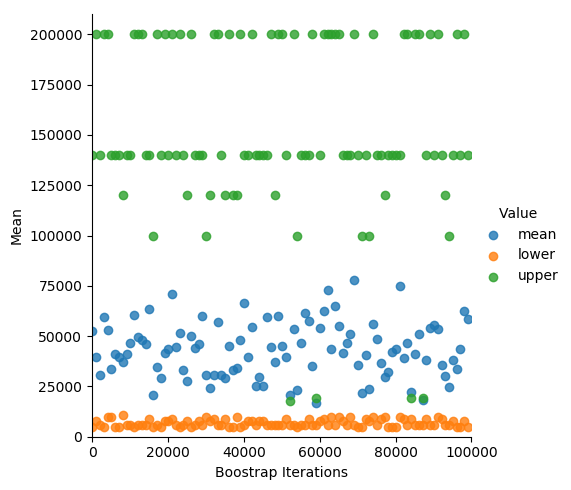
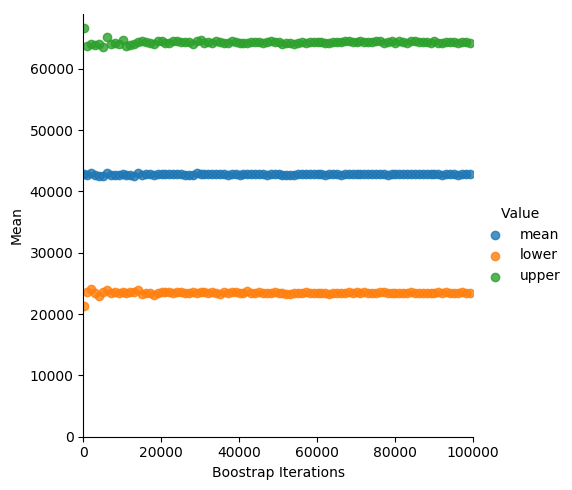
Bootstrap algo

diff --git a/labs/lab2/bootstrap.py b/labs/lab2/bootstrap.py
@@ -9,59 +9,107 @@ import math
 
 def boostrap(sample, sample_size, iterations):
     array = []
-    data_mean = []
+    meansArray = []
 
     #-----------CI value------------
-    percent = 0.05  #10% CI
+    percent = 90  #10% CI
     #-------------------------------
 
-    for i in range(0, sample_size):
-        rand = random.randint(0, sample_size-1)
-        array.append(sample[rand])
-    array.sort()
-    #print(array)
-    data_mean = np.mean(array)
+    for i in range(0, iterations):
+        for i in range(0, sample_size):
+            rand = random.randint(0, sample_size - 1)
+            array.append(sample[rand])
+        meansArray.append(np.mean(array))
+        array.clear()
 
-    #calculate number of elements to remove from list
-    res = percent*sample_size
-    res = math.floor(res)
 
-    for i in range(0, res):
-        array.pop(i)
-    #print(array)
+    #print(meansArray)
 
-    for i in range(sample_size-1, sample_size-res-1, -1):
-        array.pop(i-1)
-    #print(array)
+    data_mean = np.mean(meansArray)
+    lower = np.percentile(meansArray, (100 - percent)/2)
+    upper = np.percentile(meansArray, percent + (100 - percent)/2)
+    #print(upper)
+    #print(lower)
     #print("")
-    lower = min(array)
-    upper = max(array)
 
     return data_mean, lower, upper
 
 
 if __name__ == "__main__":
-    df = pd.read_csv('./salaries.csv')
+    mode = 2
+    if mode == 1:
+        df = pd.read_csv('./salaries.csv')
 
-    data = df.values.T[1]
-    boots = []
-    for i in range(100, 100000, 1000):
-        boot = boostrap(data, data.shape[0], i)
-        boots.append([i, boot[0], "mean"])
-        boots.append([i, boot[1], "lower"])
-        boots.append([i, boot[2], "upper"])
+        data = df.values.T[1]
+        boots = []
+        for i in range(100, 100000, 1000):
+            boot = boostrap(data, data.shape[0], i)
+            boots.append([i, boot[0], "mean"])
+            boots.append([i, boot[1], "lower"])
+            boots.append([i, boot[2], "upper"])
 
-    df_boot = pd.DataFrame(boots, columns=['Boostrap Iterations', 'Mean', "Value"])
-    sns_plot = sns.lmplot(df_boot.columns[0], df_boot.columns[1], data=df_boot, fit_reg=False, hue="Value")
+        df_boot = pd.DataFrame(boots, columns=['Boostrap Iterations', 'Mean', "Value"])
+        sns_plot = sns.lmplot(df_boot.columns[0], df_boot.columns[1], data=df_boot, fit_reg=False, hue="Value")
 
-    sns_plot.axes[0, 0].set_ylim(0,)
-    sns_plot.axes[0, 0].set_xlim(0, 100000)
+        sns_plot.axes[0, 0].set_ylim(0,)
+        sns_plot.axes[0, 0].set_xlim(0, 100000)
 
-    sns_plot.savefig("bootstrap_confidence.png", bbox_inches='tight')
-    sns_plot.savefig("bootstrap_confidence.pdf", bbox_inches='tight')
+        sns_plot.savefig("bootstrap_confidence.png", bbox_inches='tight')
+        sns_plot.savefig("bootstrap_confidence.pdf", bbox_inches='tight')
 
-    var_a = "Mean: %f" % np.mean(data)
-    var_b = "Var: %f" % np.var(data)
+        var_a = "Mean: %f" % np.mean(data)
+        var_b = "Var: %f" % np.var(data)
 
-    print(var_a)
-    print(var_b)
+        print(var_a)
+        print(var_b)
+    else:
+        #-----------------Bootstrap(2)--------------------------
+
+        df = pd.read_csv('./vehicles.csv')
+
+        data = df.values.T[0]
+        data2 = df.values.T[1]
+
+        boots = []
+        for i in range(100, 100000, 1000):
+            boot = boostrap(data, data.shape[0], i)
+            boots.append([i, boot[0], "mean"])
+            boots.append([i, boot[1], "lower"])
+            boots.append([i, boot[2], "upper"])
+
+        df_boot = pd.DataFrame(boots, columns=['Boostrap Iterations', 'Mean', "Value"])
+        sns_plot = sns.lmplot(df_boot.columns[0], df_boot.columns[1], data=df_boot, fit_reg=False, hue="Value")
+
+        sns_plot.axes[0, 0].set_ylim(0, )
+        sns_plot.axes[0, 0].set_xlim(0, 100000)
+
+        sns_plot.savefig("bootstrap_confidenceCurr.png", bbox_inches='tight')
+        sns_plot.savefig("bootstrap_confidenceCurr.pdf", bbox_inches='tight')
+
+        var_a = "Mean of current fleet: %f" % np.mean(data)
+        var_b = "Var of current fleet: %f" % np.var(data)
+
+        print(var_a)
+        print(var_b)
+
+        """boots.clear()
+        for i in range(100, 100000, 1000):
+            boot = boostrap(data2, data2.shape[0], i)
+            boots.append([i, boot[0], "mean"])
+            boots.append([i, boot[1], "lower"])
+            boots.append([i, boot[2], "upper"])
+        var_a = "Mean of new fleet: %f" % np.mean(data)
+        var_b = "Var of new fleet: %f" % np.var(data)
+
+        df_boot = pd.DataFrame(boots, columns=['Boostrap Iterations', 'Mean', "Value"])
+        sns_plot = sns.lmplot(df_boot.columns[0], df_boot.columns[1], data=df_boot, fit_reg=False, hue="Value")
+
+        sns_plot.axes[0, 0].set_ylim(0, )
+        sns_plot.axes[0, 0].set_xlim(0, 100000)
+
+        sns_plot.savefig("bootstrap_confidenceNew.png", bbox_inches='tight')
+        sns_plot.savefig("bootstrap_confidenceNew.pdf", bbox_inches='tight')
+
+        print(var_a)
+        print(var_b)"""
+        #-------------------------------------------------------
